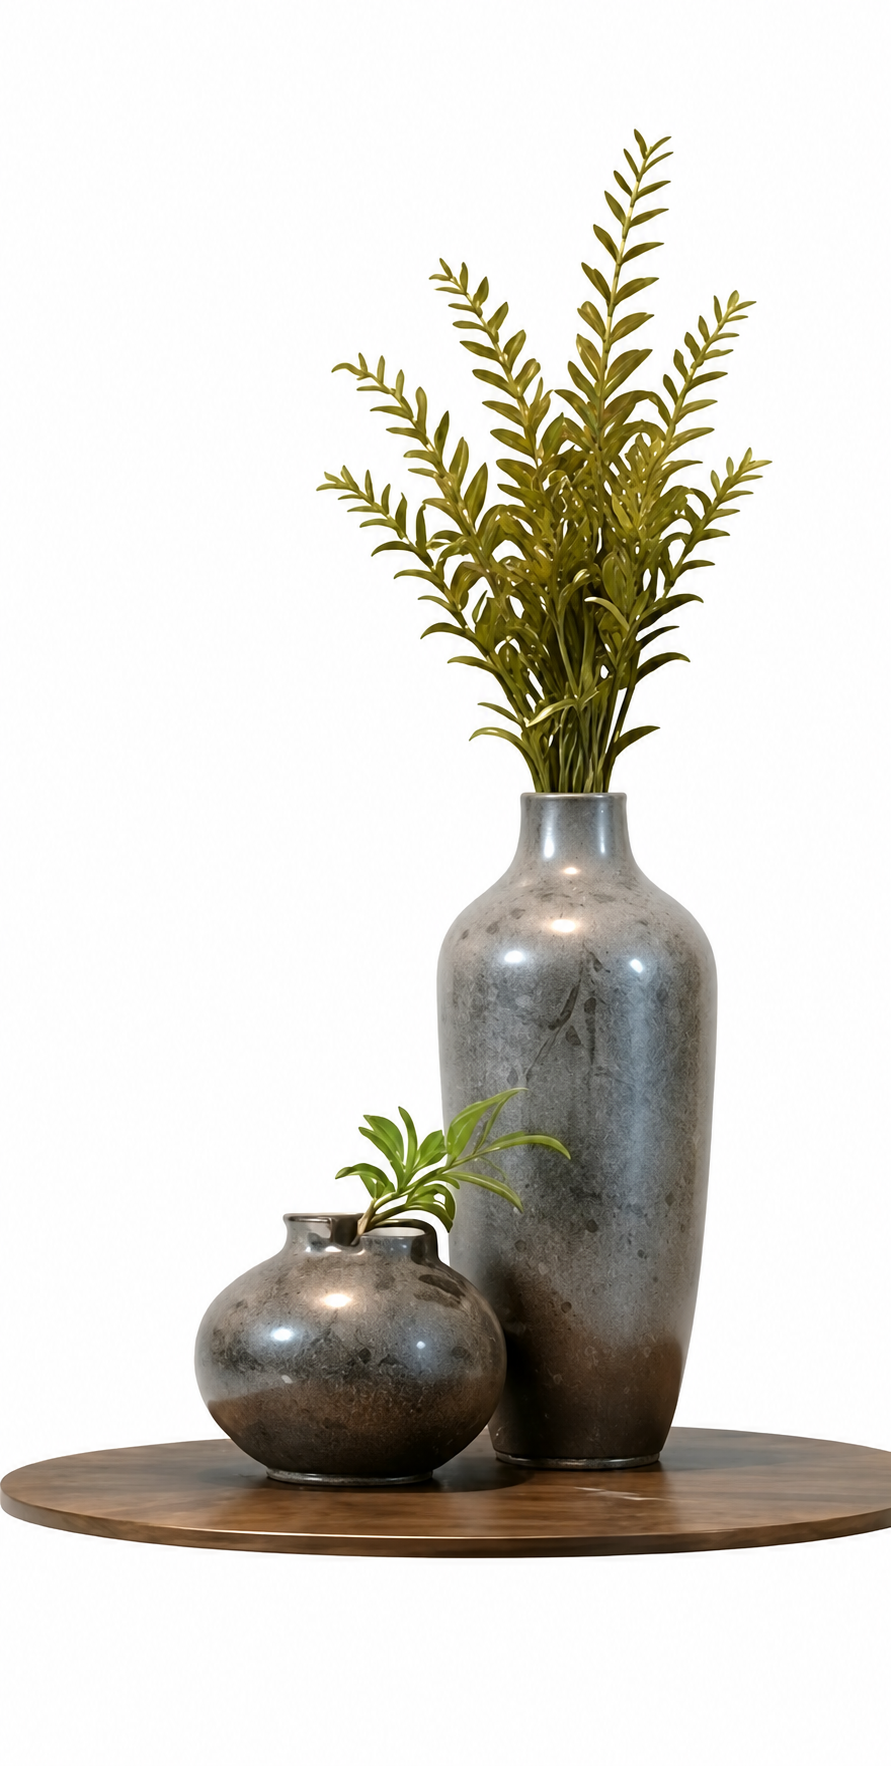
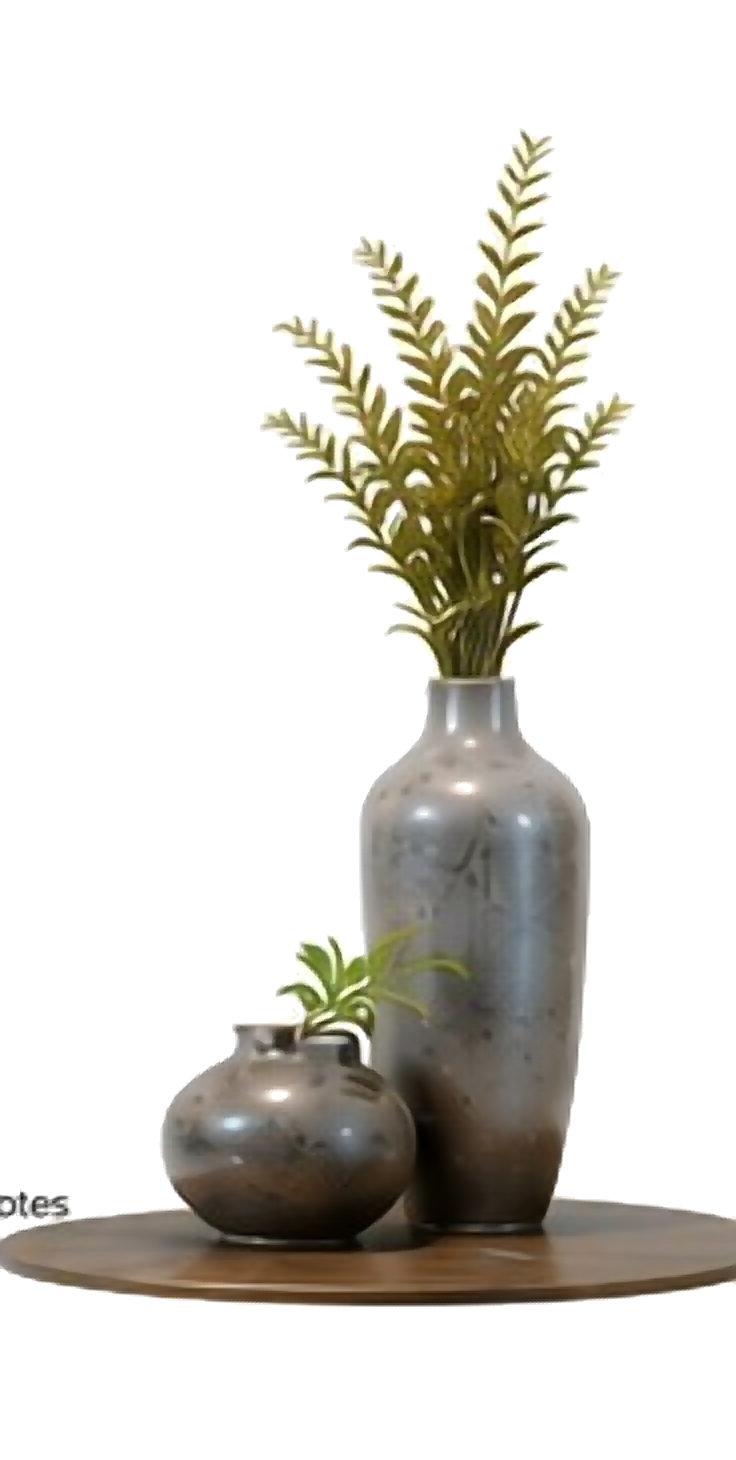
updated FAQs

Changed region(s): [[0.0, 0.0616, 1.0, 0.8938], [0.75, 0.6473, 0.7812, 0.6781]]

diff --git a/src/components/Footer.jsx b/src/components/Footer.jsx
@@ -1,5 +1,5 @@
 import { Link } from 'react-router-dom'
-import { Phone, Mail, MapPin, Clock, ShieldCheck, BadgeCheck } from 'lucide-react'
+import { Phone, Mail, MapPin, Clock, Check } from 'lucide-react'
 import { BUSINESS, SERVICE_AREAS } from '../data/site.js'
 import logoImg from '../assets/logo.png'
 
@@ -79,14 +79,12 @@ export default function Footer() {
         <div className="footer-col">
           <h4>LICENSED &amp; ACCREDITED</h4>
           <div className="accreditations">
-            <div className="accreditation">
-              <ShieldCheck size={26} strokeWidth={1.6} />
-              <div><strong>REGISTERED</strong><span>Building Practitioner</span><span>VIC</span></div>
-            </div>
-            <div className="accreditation">
-              <BadgeCheck size={26} strokeWidth={1.6} />
-              <div><strong>MASTER</strong><span>BUILDERS</span><span>VICTORIA</span></div>
-            </div>
+            {['Electrical', 'Plumbing', 'Waterproofing'].map((t) => (
+              <div className="accreditation" key={t}>
+                <span className="accreditation-icon"><Check size={13} strokeWidth={3} /></span>
+                <span className="accreditation-label">{t}</span>
+              </div>
+            ))}
           </div>
         </div>
       </div>

diff --git a/src/styles.css b/src/styles.css
@@ -211,12 +211,10 @@ button { font-family: inherit; }
 .footer-col li a:hover { color: var(--green-dark); }
 .footer-contact li { display: flex; align-items: flex-start; gap: 9px; }
 .footer-contact svg { color: var(--green); flex-shrink: 0; margin-top: 3px; }
-.accreditations { display: flex; flex-direction: column; gap: 16px; }
+.accreditations { display: flex; flex-direction: column; gap: 12px; }
 .accreditation { display: flex; align-items: center; gap: 10px; color: var(--ink); }
-.accreditation svg { flex-shrink: 0; color: var(--green-dark); }
-.accreditation div { display: flex; flex-direction: column; line-height: 1.35; }
-.accreditation strong { font-size: 10.5px; letter-spacing: 0.08em; }
-.accreditation span { font-size: 10.5px; color: var(--muted); }
+.accreditation-icon { display: inline-flex; align-items: center; justify-content: center; width: 22px; height: 22px; border-radius: 50%; background: var(--green-soft); color: var(--green-dark); flex-shrink: 0; }
+.accreditation-label { font-size: 12.5px; font-weight: 500; color: var(--ink); }
 .footer-bottom { border-top: 1px solid var(--line); padding: 18px 0; }
 .footer-bottom-inner { display: flex; justify-content: space-between; align-items: center; gap: 16px; font-size: 12px; color: var(--muted); }
 .footer-legal { display: flex; align-items: center; gap: 12px; }

diff --git a/src/pages/LaundryRenovations.jsx b/src/pages/LaundryRenovations.jsx
@@ -44,7 +44,8 @@ export default function LaundryRenovations() {
         { q: 'How long does a laundry renovation take?', a: 'Laundry renovations are usually quicker than kitchens or bathrooms, often completed within one to three weeks on site depending on the scope and any tiling involved.' },
         { q: 'Can you fit a laundry into a small space?', a: 'Yes. We are experienced at designing compact and European style laundries that make the most of tight spaces without sacrificing storage.' },
         { q: 'Can I renovate my laundry with my bathroom?', a: 'Definitely. Many clients combine a laundry and bathroom renovation, which we manage together to save time and keep the finishes consistent.' },
-        { q: 'Do you supply laundry appliances?', a: 'We can supply and install appliances or work around ones you already own, making sure everything fits and connects correctly in your new layout.' },
+      //   { q: 'Do you supply laundry appliances?', a: 'We can supply and install appliances or work around ones you already own, making sure everything fits and connects correctly in your new layout.' },
+      // 
       ]}
     />
   )

diff --git a/src/pages/KitchenRenovations.jsx b/src/pages/KitchenRenovations.jsx
@@ -47,7 +47,7 @@ export default function KitchenRenovations() {
       faq={[
         { q: 'How long does a kitchen renovation take?', a: 'Most kitchen renovations take around three to five weeks on site once materials are ready, depending on the size and scope. We give you a clear timeline before we start and keep you updated throughout.' },
         { q: 'Can you work to my budget?', a: 'Yes. We offer a range of cabinetry and benchtop options at different price points, and we provide a detailed fixed quote so you know exactly what is included before any work begins.' },
-        { q: 'Do you supply the appliances?', a: 'We can supply and install appliances, or fit appliances you have already purchased. Either way we make sure everything is integrated correctly into your new layout.' },
+        // { q: 'Do you supply the appliances?', a: 'We can supply and install appliances, or fit appliances you have already purchased. Either way we make sure everything is integrated correctly into your new layout.' },
         { q: 'Do I need to organise other trades?', a: 'No. We coordinate every trade for you, including plumbers, electricians, tilers and cabinet makers, so you have a single point of contact for the whole project.' },
       ]}
     />